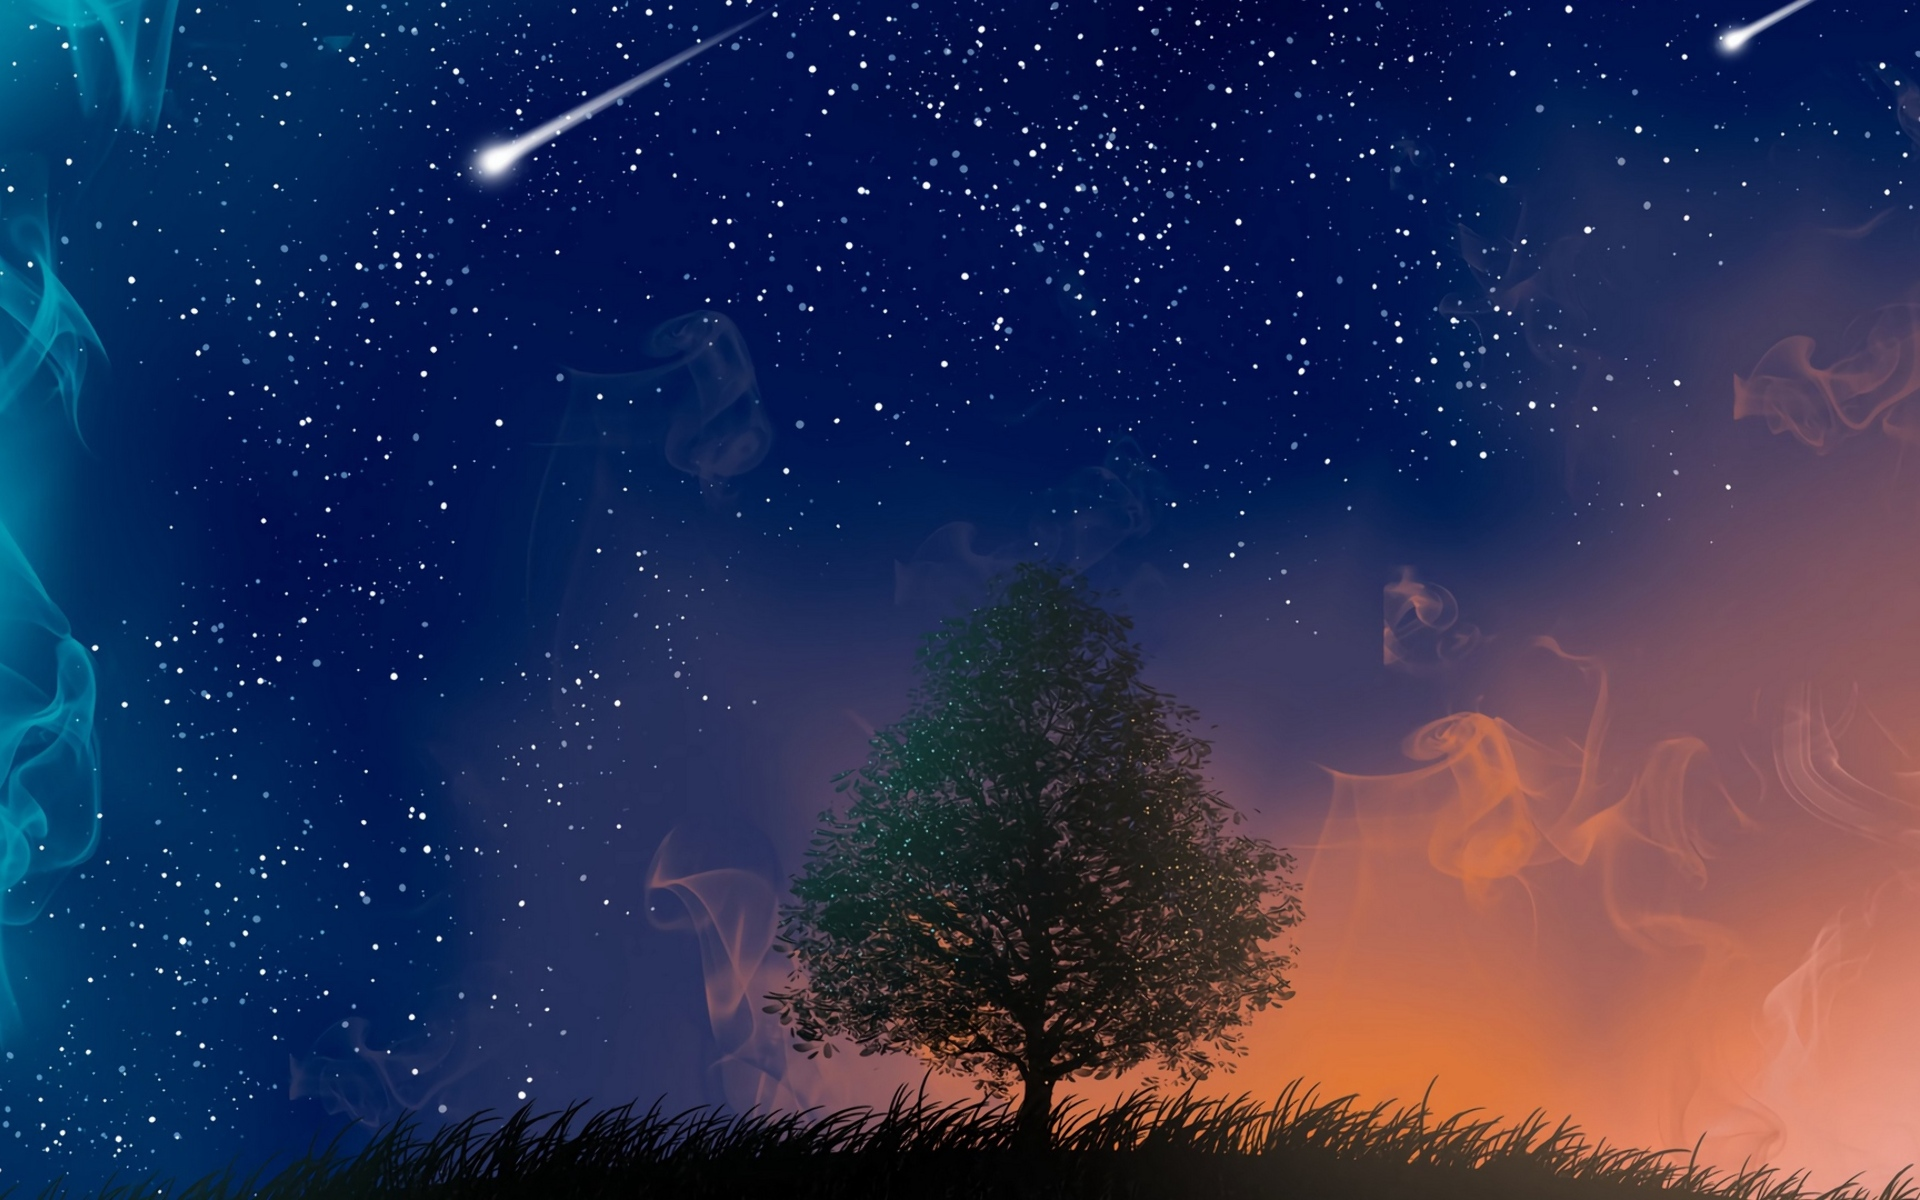
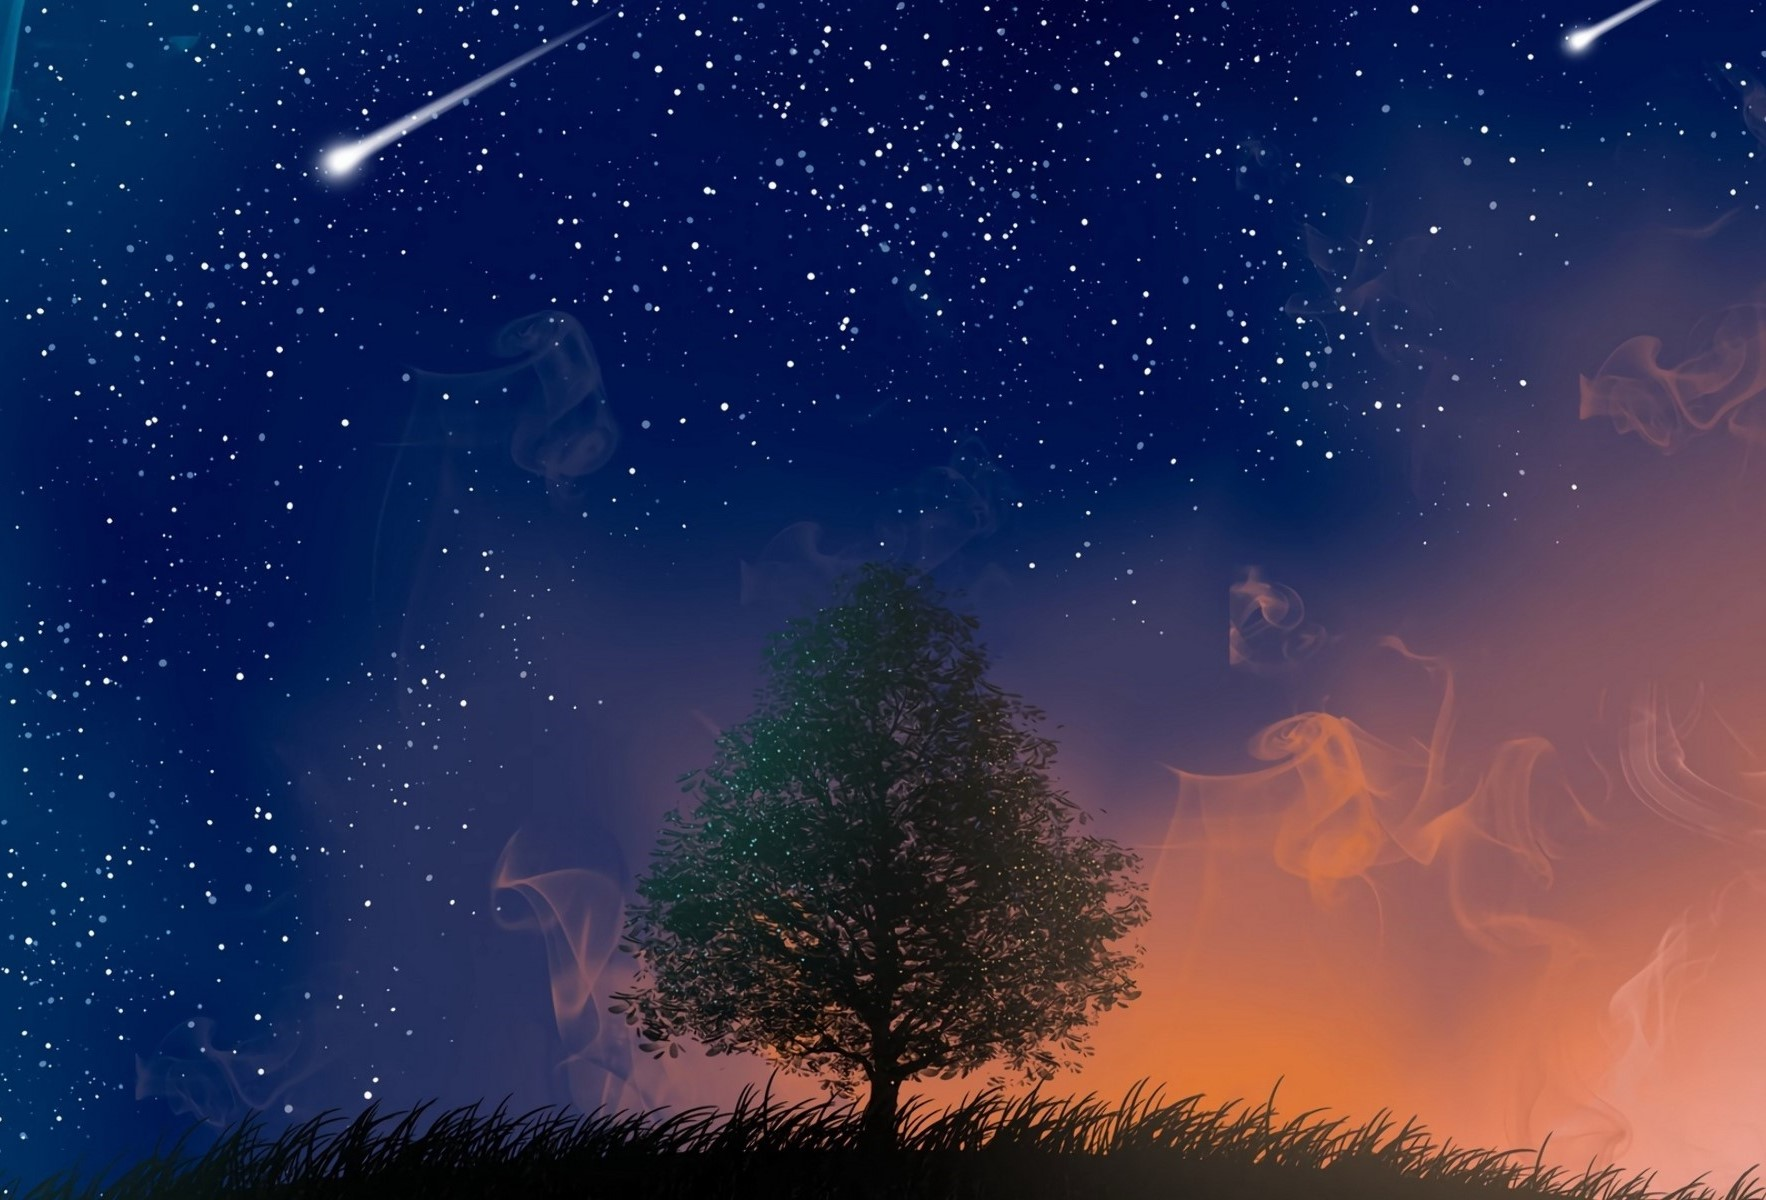
added popup box get started etc

diff --git a/src/components/Nav.js b/src/components/Nav.js
@@ -1,14 +1,7 @@
 import React, {useEffect, useState} from "react";
 import earthLogo from "../images/earth-logo.png";
-
-function Nav() {
-
-    
-    const [photoData, setPhotoData] = useState(null);
-    const [blur, setBlur] = useState(false);
-    const [blurIcon, setBlurIcon] = useState(false);
-    const [loggedIn, setLoggedIn] = useState(true);
-    
+import image from "../images/light.jpg"
+function Nav({photoData, setPhotoData, blur, setBlur, blurIcon, setBlurIcon, loggedIn, setLoggedIn}) {
     useEffect(()=>{
       window.localStorage.setItem('photoData', photoData);
     }, [photoData]);
@@ -70,7 +63,7 @@ function Nav() {
     
   return(
     <>    
-    <div id="background" className= {`background h-screen ${blur? 'blur-sm saturate-50': 'blur-none saturate-100'} -z-20 transition-all duration-300`} style={{backgroundImage:`url('https://coolwallpapers.me/picsup/5814157-meteor-wallpapers.jpg')`, backgroundPosition:'center',backgroundSize:'cover', position:'absolute', backgroundRepeat:'repeat', left:'0', right:'0', top:'0', bottom:'0'}}></div>
+    <div id="background" className= {`background h-screen ${blur? 'blur-sm saturate-50': 'blur-none saturate-100'} -z-20 transition-all duration-300`} style={{backgroundImage:`url(${image})`, backgroundPosition:'center',backgroundSize:'contain', position:'absolute', backgroundRepeat:'repeat', left:'0', right:'0', top:'0', bottom:'0'}}></div>
 
     {/* <img id="background"src="https://coolwallpapers.me/picsup/5814157-meteor-wallpapers.jpg" className= {`background h-screen ${blur? 'blur-sm saturate-50': 'blur-none saturate-100'} -z-10 absolute transition-all duration-300`} style={{ left:'0', right:'0', top:'0', bottom:'0'}}/> */}
 
@@ -78,7 +71,7 @@ function Nav() {
       <nav className = "absolute flex items-center justify-between flex-wrap  p-4">
         <div className="p-4 flex items-center flex-shrink-0 text-white mr-6 ">
             <img  onClick = {() =>{blur? setBlur(false):setBlur(true)}}className = {`${!blur? 'animate-pulse hover:outline-slate-900 hover:duration-150': 'hover:outline-slate-900 hover:duration-150'} delay-200 p-0  z-40 outline outline-4 outline-white outline-offset-4 rounded-full  ${blurIcon? 'animate-spin':''}`} src={earthLogo} style={{maxWidth: 70, margin:0}}></img>
-            <span className="z-40 font-semibold text-3xl tracking-widest pl-7">GeoSphere</span>
+            <span className="z-40 font-semibold text-3xl tracking-widest pl-7"><a href="/">GeoSphere</a></span>
         </div>
         <div className = "block lg:hidden">
             

diff --git a/src/components/Welcome.js b/src/components/Welcome.js
@@ -1,9 +1,27 @@
 import React, {useState, useEffect} from 'react';
 
-export default function Welcome (){
-    return(
-        <div style={{maxWidth:"30%", marginTop:"17%"}} className="m-x-auto outline outline-white p-4">
-            <h1  className = "p-4 outline bg-blue-400 bg-opacity-25 outline-white rounded-md outline-rounded-sm border-white outline-offset-8 border-4 outline-4  mx-auto text-center pt-1/2 text-7xl text-white font-semibold">Get started</h1>
+export default function Welcome ({photoData, setPhotoData, blur, setBlur, blurIcon, setBlurIcon, loggedIn, setLoggedIn}){
+    const [started, setStarted] = useState(false);
+    const [started2, setStarted2] = useState(false);
+  
+    const handleStarted = () =>{
+        setStarted(true);
+        setTimeout(function(){
+            setStarted2(true);
+        }, 700)
+    }
+    const startButton = (
+        <>
+        <div style={{maxWidth:"30%", marginTop:"19%"}} className={` ${blur? 'blur-sm': ''}  ${started? 'scale-0 duration-500':''} ${started2? 'absolute': ''} hover:bg-opacity-0 hover:bg-slate-600 hover:text-orange-800 hover:delay-200 bg-slate-800 bg-opacity-70  group m-auto outline rounded-full outline-8 outline-white p-4 text-center`}>
+            <h1 onClick={() => handleStarted()} className = "p-3 h-max w-max mx-auto text-center pt-1/2 text-7xl text-white uppercase font-semibold hover:text-transparent bg-clip-text bg-gradient-to-r duration-300 from-orange-400 to-red-400">Get started</h1>
         </div>
+        <div style={{marginTop:"19%", maxWidth:"70%"}} className = {`${started? 'scale-100': 'scale-0'} mx-auto text-3xl transformation duration-500 delay-[850ms] p-4 border-4 border-white rounded-full`}>HELLO THIS IS ME</div>
+        </>
+    )
+    return(
+        <>
+        {startButton}
+        
+        </>
     )
 }

diff --git a/src/App.js b/src/App.js
@@ -3,13 +3,18 @@ import './App.css';
 import Nav from './components/Nav';
 import Nasa from './components/Nasa';
 import Welcome from './components/Welcome';
+import React, {useEffect, useState} from 'react';
 function App() {
-  
+  const [photoData, setPhotoData] = useState(null);
+  const [blur, setBlur] = useState(false);
+  const [blurIcon, setBlurIcon] = useState(false);
+  const [loggedIn, setLoggedIn] = useState(true);
+
   document.body.style.backgroundColor='black';
   return (
     <>
-      <Nav className="absolute top-0 left-0 right-0 bottom-0"/>
-      <Welcome/>
+      <Nav photoData={photoData} setPhotoData={setPhotoData} blur={blur} setBlur={setBlur} blurIcon={blurIcon} setBlurIcon={setBlurIcon} loggedIn={loggedIn} setLoggedIn={setLoggedIn} />
+      <Welcome photoData={photoData} setPhotoData={setPhotoData} blur={blur} setBlur={setBlur} blurIcon={blurIcon} setBlurIcon={setBlurIcon} loggedIn={loggedIn} setLoggedIn={setLoggedIn}/>
     </>
     
     
